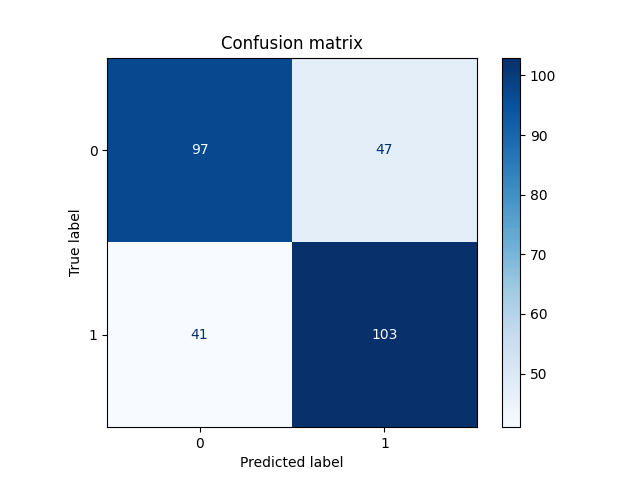
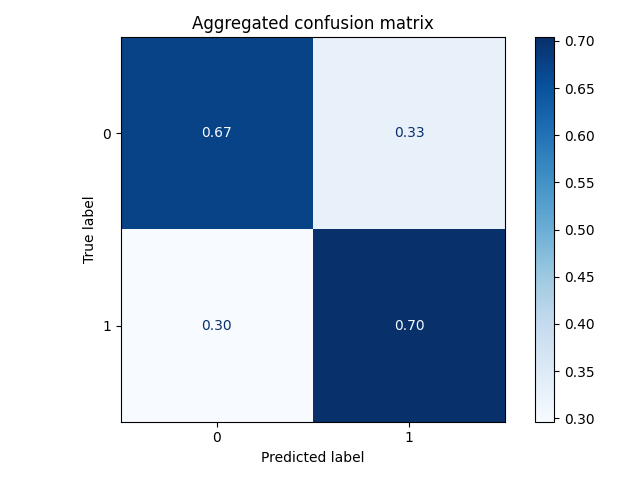
updated documentation

diff --git a/docs/results.md b/docs/results.md
@@ -3,27 +3,19 @@
 ## Logistic Regression
 
 As the logistic regression model is implemented using statsmodels, it allows us to gather more detailed metrics about the model.
-For example, using p-values with the significance level of 0.05 we can see that out of the features, **"balance"** and **"f0_std"** are statistically significant, with a p-value of less than or equal to 0.05. The coefficient of "balance" is also the most significant at less than -5. This implies that TED-speakers have lower balance-values, meaning that their speeches contain more pauses. The coefficient of "f0_std" is not as significant, but it does imply that TED-speakers tend to thave more pitch variability. Furthermore the p-value of "articulation_rate" is just slightly over the significance level, but its coefficient is also not nearly as significant as "balance"s. The negative value of it does imply that TED-speakers talk at a slightly slower rate (when using the speaking duration, which has removed pauses).
+For example, using p-values with the significance level of 0.05 we can see that out of the features, **"balance"** and **"f0_std"** are statistically significant, with a p-value of less than or equal to 0.05. The coefficient of "balance" is also the most significant at almost -5. This implies that TED-speakers have lower balance-values, meaning that their speeches contain more pauses. The coefficient of "f0_std" is not as significant, but it does imply that TED-speakers tend to have more pitch variability.
 
 ![logreg_coef_pval_graph](./images/logreg_coef_pval_graph.png)
 
-The confusion matrix, and the precision, recall and f1-score metrics of the model show that the model does make a significant amount of wrong classifications, with the overall accuracy being around **69.4%**
+The confusion matrix of the model show that the model does make a significant amount of wrong classifications, which tend to be equally distributed between the classes. The overall accuracy **0.6884 ± 0.0209** of the model is decent.
 
 ![logreg_confusion_matrix](./images/logreg_confusion_matrix.png)
 
-|              |   precision |   recall |   f1-score |    support |
-|:-------------|------------:|---------:|-----------:|-----------:|
-| 0            |    0.702899 | 0.673611 |   0.687943 | 144        |
-| 1            |    0.686667 | 0.715278 |   0.70068  | 144        |
-| accuracy     |    0.694444 | 0.694444 |   0.694444 |   0.694444 |
-| macro avg    |    0.694783 | 0.694444 |   0.694312 | 288        |
-| weighted avg |    0.694783 | 0.694444 |   0.694312 | 288        |
-
-The ROC curve gives a slightly better perspective, with an AUC of **0.75**, suggesting a good ability to distinguish between TED and non-TED talks.
+The ROC curve gives a slightly better perspective, with an AUC of **0.75 ± 0.02**, suggesting a good ability to distinguish between TED and non-TED talks.
 
 ![logreg_roc_curve](./images/logreg_roc_curve.png)
 
-Lastly, the Pseudo R-squared value of **0.1355** indicates a moderate explanatory power.
+Lastly, the Pseudo R-squared value of **0.1360 ± 0.0080** indicates a moderate explanatory power.
 
 ## Random Forest
 
@@ -31,19 +23,11 @@ Interestingly, the feature importance values of the random forest model are noti
 
 ![randomforest_feature_importance](./images/randomforest_feature_importance.png)
 
-The confusion matrix, and the precision, recall and f1-score metrics are quite similar to the logreg model, although there is a noticeable dip in overall accuracy, down to around **63.5%**
+The confusion matrix is quite similar to the logreg model, but there is a noticeable drop in overall accuracy, down to around **0.6293 ± 0.0244**.
 
 ![randomforest_confusion_matrix](./images/randomforest_confusion_matrix.png)
 
-|              |   precision |   recall |   f1-score |    support |
-|:-------------|------------:|---------:|-----------:|-----------:|
-| 0            |    0.638298 | 0.625    |   0.631579 | 144        |
-| 1            |    0.632653 | 0.645833 |   0.639175 | 144        |
-| accuracy     |    0.635417 | 0.635417 |   0.635417 |   0.635417 |
-| macro avg    |    0.635475 | 0.635417 |   0.635377 | 288        |
-| weighted avg |    0.635475 | 0.635417 |   0.635377 | 288        |
-
-As with the logistic regression model, the ROC curve gives a slightly better rating, with an AUC of **0.68**, suggesting a reasonable ability to distinguish between TED and non-TED talks.
+As with the logistic regression model, the ROC curve gives a slightly better rating, with an AUC of **0.71 ± 0.01**, suggesting a reasonable ability to distinguish between TED and non-TED talks.
 
 ![randomforest_roc_curve](./images/randomforest_roc_curve.png)
 
@@ -102,3 +86,9 @@ The ROC curve is quite similar with the SVM, with an AUC of **0.76**, suggesting
 Using K-Fold, with five folds the KNN model achieved a mean accuracy of **66.7%** with a standard deviation of **2.8%**. This indicates that the model's performance is not as good as in SVM for example, but can still make quite good predictions with different data splits.
 
 ![knn_kfold](./images/knn_kfold.png)
+
+## Comparison between model accuracies
+
+In a graph showing a 95% confidence interval for the accuracies, the models are in a distinct order and can thus be ranked easily. **SVM is clearly the most accurate**, being the only model to achieve a mean accuracy of over 70%. It also has the lowest spread of the models. Second most accurate is logistic regression, which falls under 70% in mean accuracy and has a slightly bigger spread. Third is KNN. However it has the largest spread, and at its best it's close to the best results of the previous two. The random forest model comes in last. It only has a bit less spread than KNN, but the entire interval is noticeably worse than the rest.
+
+![model_accuracy_comparison](./images/model_accuracy_comparison.png)
